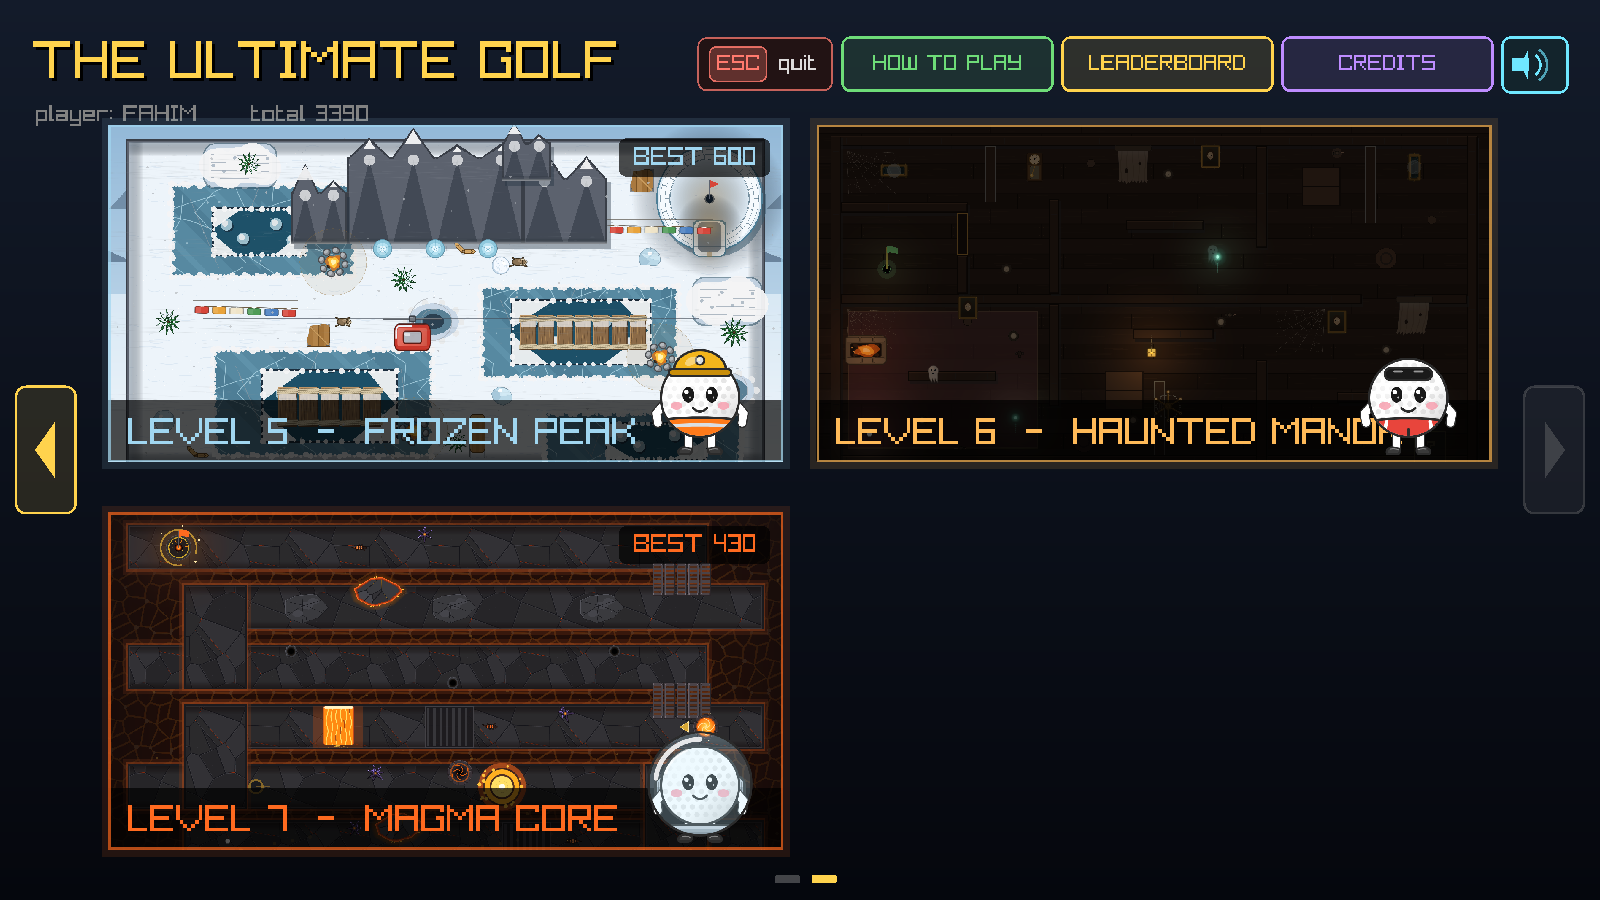
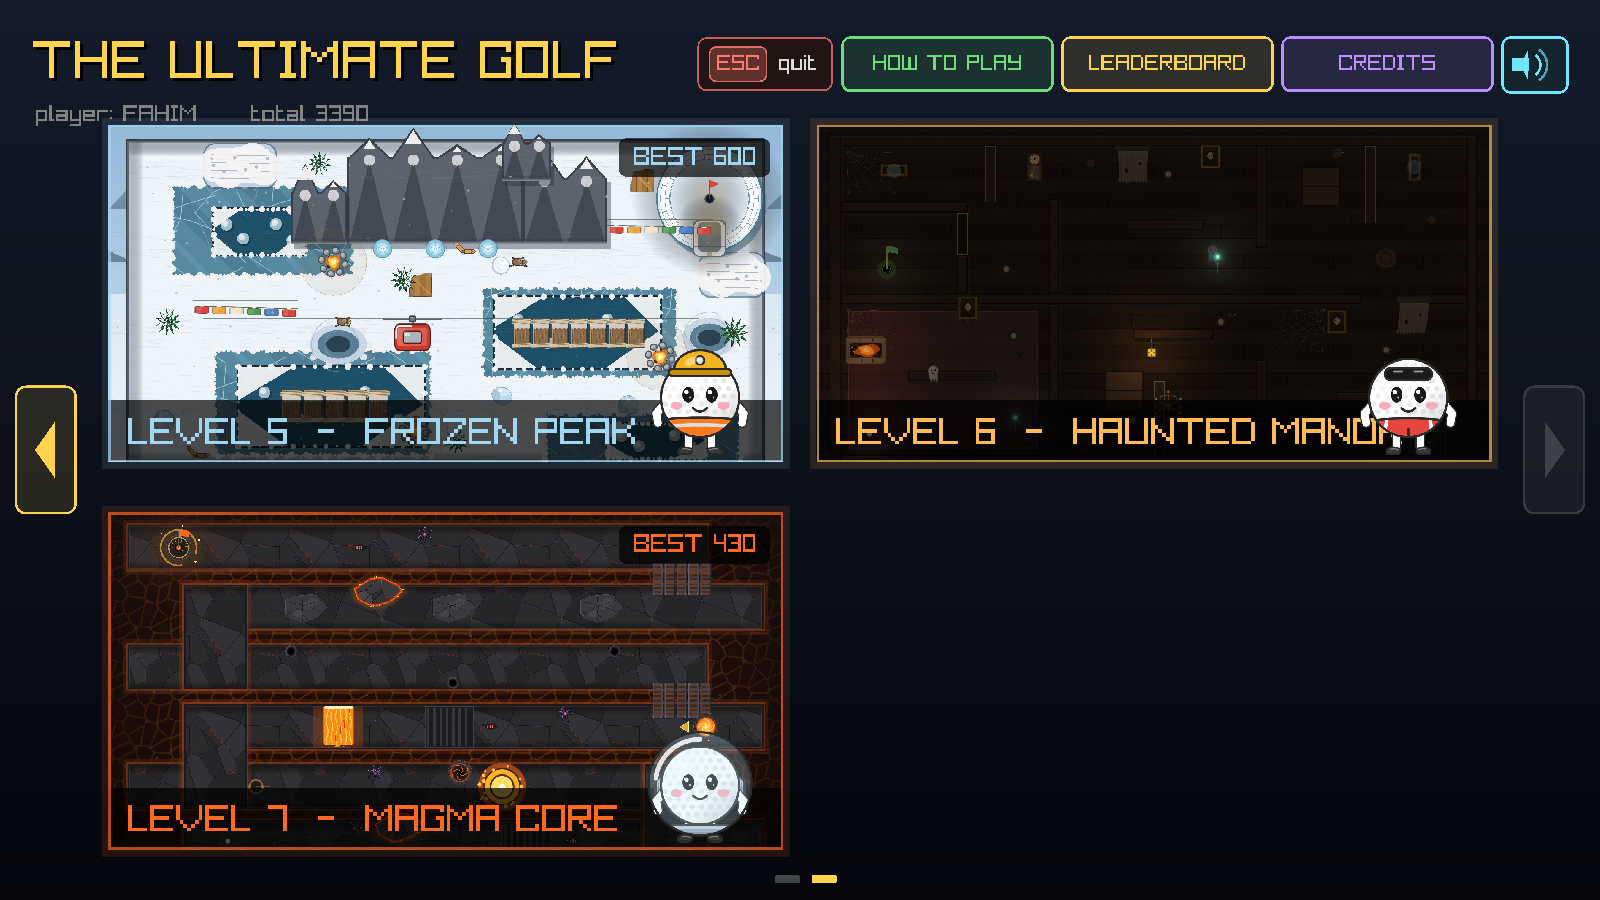
Make the peak's furniture do something, or take it out
Three of these were decoration pretending to be obstacles.

The toboggan is gone. It was a moving box parked on a corner of the basin
nobody has a reason to visit, it was never in the briefing, and there is no
slope on this level for a sled to be running down. Its sprite is deleted too.

The snow pits only ever did anything if the ball came to a complete stop
inside one and then sat there for three seconds, which on an open field
essentially never happened. They now drag like wet sand the moment you are
in one - harder than deep powder, hard enough to actually stop you - and once
you are stopped they take the ball in a second. Both of them have moved onto
ground you roll over on the way through: one on the way out of the camp, one
on the run up to the igloo.

The boardwalks were a lid. Each one covered its whole hole, so there was
nothing to decide and nothing to see. The two leads they cross are wider than
the boardwalk now, so the water shows on every side of the planks and the
crossing reads as the line it is. The planks also crack in a third of a
second instead of six tenths: you cross a boardwalk at speed or you go in.

Nothing is sharing ground with anything else any more - the crate that was
standing inside a snow pit, the boulder on the line out of the camp and the
pine growing out of a powder bank have all moved.

Every stretch of all three courses is reachable. The peak's worst leg is 26
of 40.

Changed region(s): [[0.25, 0.28, 0.5, 0.4356], [0.125, 0.3422, 0.3125, 0.4978]]

diff --git a/src/levels/level5_frozen_peak.c b/src/levels/level5_frozen_peak.c
@@ -34,7 +34,6 @@ Texture2D l5_campfire_texture;
 Texture2D l5_icicle_texture;
 Texture2D l5_ibex_texture;
 Texture2D l5_flags_texture;
-Texture2D l5_toboggan_texture;
 Texture2D l5_crate_texture;
 Texture2D l5_boulder_texture;
 Texture2D l5_spindrift_texture;
@@ -80,7 +79,9 @@ Rectangle l5_plank[2][7];
 int l5_plank_count[2] = {5,7};
 int l5_plank_state[2][7];
 float l5_plank_timer[2][7];
-float l5_plank_crack_time[2] = {0.6,0.35};
+//how long a plank holds once you are standing on it. Short on purpose: you cross a
+//boardwalk at speed or you go in.
+float l5_plank_crack_time[2] = {0.3,0.2};
 
 //the gondola carries the ball across
 Rectangle l5_gondola;
@@ -129,11 +130,6 @@ float l5_ibex_radius;
 Vector2 l5_flagline[3];
 float l5_flagline_width[3];
 
-//the toboggan runs a lane and knocks the ball off it
-Rectangle l5_toboggan;
-float l5_toboggan_from;
-float l5_toboggan_to;
-float l5_toboggan_speed;
 
 //supply crates are solid, ice boulders are bouncy, signposts are scenery
 Rectangle l5_crate[3];
@@ -192,8 +188,10 @@ void l5_reset_level()
 
     //the open water in them. This is the only thing on the level that can swallow a shot
     //outright, and all four are plainly visible.
-    l5_water[0] = l5_make_rect(440,760,380,200);
-    l5_water[1] = l5_make_rect(1150,560,390,180);
+    //the two leads the boardwalks cross are wider than the boardwalk, so the crossing is
+    //a line you take rather than a lid over the hole
+    l5_water[0] = l5_make_rect(370,748,530,226);
+    l5_water[1] = l5_make_rect(1100,548,470,206);
     l5_water[2] = l5_make_rect(300,300,260,130);
     l5_water[3] = l5_make_rect(1420,910,280,100);
 
@@ -216,17 +214,19 @@ void l5_reset_level()
     //deep powder: the places you can stop dead
     //two banks of deep powder, each one a place worth aiming at
     l5_powder[0] = l5_make_rect(280,120,190,110);
-    l5_powder[1] = l5_make_rect(1670,500,180,120);
+    l5_powder[1] = l5_make_rect(1690,430,170,110);
     l5_powder[2] = l5_make_rect(-900,-900,10,10);
 
     //two holes blown full of soft snow, out on the open field
-    l5_drift[0] = l5_make_rect(840,560,170,120);
-    l5_drift[1] = l5_make_rect(1690,760,160,110);
+    //two snow pits, both on ground you would otherwise roll straight over: one on the
+    //way out of the camp, one on the run up to the igloo
+    l5_drift[0] = l5_make_rect(560,620,190,130);
+    l5_drift[1] = l5_make_rect(1620,600,180,130);
     l5_drift_timer = 0;
 
     //boardwalks over the two biggest leads, for anyone who would rather not go round
-    for (int i=0; i<5; i++) l5_plank[0][i] = l5_make_rect(480+i*60,802,60,120);
-    for (int i=0; i<7; i++) l5_plank[1][i] = l5_make_rect(1168+i*52,598,52,106);
+    for (int i=0; i<5; i++) l5_plank[0][i] = l5_make_rect(490+i*62,812,62,100);
+    for (int i=0; i<7; i++) l5_plank[1][i] = l5_make_rect(1150+i*54,608,54,90);
     for (int b=0; b<2; b++)
     {
         for (int i=0; i<7; i++)
@@ -269,7 +269,7 @@ void l5_reset_level()
     l5_pine[1] = l5_make_point(990,960);
     l5_pine[2] = l5_make_point(1780,650);
     l5_pine[3] = l5_make_point(840,500);
-    l5_pine[4] = l5_make_point(400,170);
+    l5_pine[4] = l5_make_point(600,170);
 
     //campfires, out on the lakes: the only places on the ice where the ball has grip
     l5_campfire_radius = 95*l5_u;
@@ -314,20 +314,14 @@ void l5_reset_level()
     l5_flagline[2] = l5_make_point(-900,-900);
     l5_flagline_width[2] = 10*l5_u;
 
-    //the toboggan runs across the east shore
-    l5_toboggan = l5_make_rect(1000,800,100,150);
-    l5_toboggan_from = 760*l5_u;
-    l5_toboggan_to = 980*l5_u;
-    l5_toboggan_speed = 150*l5_u;
-
     //crates and boulders out on the snow
-    l5_crate[0] = l5_make_rect(560,620,76,76);
+    l5_crate[0] = l5_make_rect(850,478,76,76);
     l5_crate[1] = l5_make_rect(1480,180,76,76);
     l5_crate[2] = l5_make_rect(-900,-900,10,10);
     l5_boulder_radius = 34*l5_u;
     l5_boulder[0] = l5_make_point(160,900);
     l5_boulder[1] = l5_make_point(1120,830);
-    l5_boulder[2] = l5_make_point(1540,440);
+    l5_boulder[2] = l5_make_point(1480,860);
     l5_boulder[3] = l5_make_point(-900,-900);
     for (int i=0; i<4; i++) l5_boulder_hit[i] = 0;
 
@@ -481,19 +475,6 @@ void l5_update_obstacles(float dt)
             l5_ibex[i].x = l5_ibex_to[i];
             l5_ibex_speed[i] = -fabsf(l5_ibex_speed[i]);
         }
-    }
-
-    //the toboggan runs up and down its lane
-    l5_toboggan.y = l5_toboggan.y + l5_toboggan_speed*dt;
-    if (l5_toboggan.y<l5_toboggan_from)
-    {
-        l5_toboggan.y = l5_toboggan_from;
-        l5_toboggan_speed = fabsf(l5_toboggan_speed);
-    }
-    if (l5_toboggan.y>l5_toboggan_to)
-    {
-        l5_toboggan.y = l5_toboggan_to;
-        l5_toboggan_speed = -fabsf(l5_toboggan_speed);
     }
 
     for (int i=0; i<4; i++)
@@ -689,6 +670,12 @@ void l5_update_ball(float dt)
     {
         if (CheckCollisionPointRec(l5_ball,l5_powder[i])) friction = 430*l5_u;
     }
+    //a snow pit drags harder than anything else on the mountain. Roll into one slowly and
+    //it will stop you, and once you are stopped it has you.
+    for (int i=0; i<2; i++)
+    {
+        if (CheckCollisionPointRec(l5_ball,l5_drift[i])) friction = 1100*l5_u;
+    }
     float ball_speed = Vector2Length(l5_speed);
     if (ball_speed>0)
     {
@@ -720,7 +707,7 @@ void l5_update_ball(float dt)
     if (in_drift==1 && Vector2Length(l5_speed)<10*l5_u)
     {
         l5_drift_timer = l5_drift_timer + dt;
-        if (l5_drift_timer>=3)
+        if (l5_drift_timer>=1.2)
         {
             l5_send_ball_back();
             l5_message_type = 2;
@@ -801,10 +788,6 @@ void l5_update_ball(float dt)
             l5_speed.x = l5_speed.x + ibex_speed.x*0.3;
         }
     }
-
-    //the toboggan knocks the ball down the lane
-    Vector2 sled_speed = {0,l5_toboggan_speed};
-    l5_bounce_off_rectangle(l5_toboggan,sled_speed);
 
     //the gondola's walls push the ball along when it slides into one
     if (on_gondola==0)
@@ -1264,10 +1247,6 @@ void l5_draw_obstacles()
         DrawTexturePro(l5_boulder_texture,source,dest,origin,i*23,WHITE);
     }
 
-    //the toboggan
-    Rectangle sled_source = {(l5_toboggan_speed>0 ? 256 : 0),0,256,256};
-    DrawTexturePro(l5_toboggan_texture,sled_source,l5_toboggan,no_origin,0,WHITE);
-
     //the ibex pacing their lanes
     for (int i=0; i<3; i++)
     {
@@ -1499,7 +1478,6 @@ void l5_start(int screen_width, int screen_height)
     l5_icicle_texture = LoadTexture("assets/frozen/frozen_icicle.png");
     l5_ibex_texture = LoadTexture("assets/frozen/frozen_ibex.png");
     l5_flags_texture = LoadTexture("assets/frozen/frozen_flags.png");
-    l5_toboggan_texture = LoadTexture("assets/frozen/frozen_toboggan.png");
     l5_crate_texture = LoadTexture("assets/frozen/frozen_crate.png");
     l5_boulder_texture = LoadTexture("assets/frozen/frozen_boulder.png");
     l5_spindrift_texture = LoadTexture("assets/frozen/frozen_spindrift.png");
@@ -1519,7 +1497,6 @@ void l5_start(int screen_width, int screen_height)
     SetTextureFilter(l5_icicle_texture,TEXTURE_FILTER_BILINEAR);
     SetTextureFilter(l5_ibex_texture,TEXTURE_FILTER_BILINEAR);
     SetTextureFilter(l5_flags_texture,TEXTURE_FILTER_BILINEAR);
-    SetTextureFilter(l5_toboggan_texture,TEXTURE_FILTER_BILINEAR);
     SetTextureFilter(l5_crate_texture,TEXTURE_FILTER_BILINEAR);
     SetTextureFilter(l5_boulder_texture,TEXTURE_FILTER_BILINEAR);
     SetTextureFilter(l5_spindrift_texture,TEXTURE_FILTER_BILINEAR);
@@ -1598,7 +1575,6 @@ void l5_unload()
     UnloadTexture(l5_icicle_texture);
     UnloadTexture(l5_ibex_texture);
     UnloadTexture(l5_flags_texture);
-    UnloadTexture(l5_toboggan_texture);
     UnloadTexture(l5_crate_texture);
     UnloadTexture(l5_boulder_texture);
     UnloadTexture(l5_spindrift_texture);

diff --git a/src/the_ultimate_golf.c b/src/the_ultimate_golf.c
@@ -1531,7 +1531,7 @@ float brief_x[LEVELS][13] = {
     {390,225,465,520,915,730,1200,1180,1000},
     {800,1840,960,600,700,1810,1200,1330,675,110,-2,-3,-1},
     {690,690,340,835,950,330,250,1080,1280,1810,1810},
-    {1580,420,1720,1205,1190,1000,1000,485,220,1440,1080,300},
+    {1580,420,375,650,640,1000,930,485,170,870,390,300},
     {980,250,470,355,860,290,170,700,860,180,760,1000},
     {620,620,575,1120,250,620,960,1140,400,900,900,1700}};
 float brief_y[LEVELS][13] = {
@@ -1539,7 +1539,7 @@ float brief_y[LEVELS][13] = {
     {520,515,165,490,630,820,140,225,225},
     {250,700,640,720,150,454,990,580,990,490,0,0,0},
     {600,210,920,350,795,570,220,570,334,200,570},
-    {910,390,665,920,676,470,404,660,700,560,460,400},
+    {910,390,175,685,860,460,412,660,620,930,560,400},
     {620,860,220,235,385,205,220,480,480,200,600,880},
     {480,1000,690,250,300,960,660,240,250,640,500,760}};
 const char *brief_text[LEVELS][13] = {
@@ -1592,8 +1592,8 @@ const char *brief_text[LEVELS][13] = {
     {"The lakes have melted through in places.\nGo in and the shot starts again.",
      "Four of them, and almost no friction.\nThe ball keeps going. So does the wind.",
      "Kills the speed at once. A safe place\nto stop and line up a shot.",
-     "Stand still in one for three seconds\nand the snow swallows the ball.",
-     "Laid over the open water. It cracks when\nyou roll on it and comes back in five seconds.",
+     "Drags like wet sand. Stop in one for a\nsecond and the snow has the ball.",
+     "The one line across the lead. It cracks\nunder you: cross it fast or go in.",
      "Crosses the basin and GROWS as it goes.\nThe bigger it is, the harder it hits.",
      "Hangs off the mountain. Go under one\nand it comes down.",
      "Rides the cable across the middle lake.\nStep on and let it carry you.",

diff --git a/tools/segment_test.c b/tools/segment_test.c
@@ -10,8 +10,8 @@
 static unsigned int sd = 2024;
 float rnd(void) { sd = sd*1103515245 + 12345; return ((sd>>16)&0x7fff)/32767.0f; }
 
-float way5[][2] = {{180,960},{220,780},{250,620},{520,600},{760,660},{1000,690},
-                   {1010,460},{1300,450},{1600,470},{1700,520},{1710,430},{1710,300}};
+float way5[][2] = {{180,960},{220,780},{260,600},{480,520},{790,560},{1000,700},
+                   {1010,460},{1300,450},{1560,480},{1700,530},{1710,430},{1710,300}};
 float way6[][2] = {{150,940},{400,960},{670,930},{900,930},{1150,900},{1265,650},{1400,650},
                    {1600,620},{1620,556},{1620,460},{1500,460},{1265,470},{1100,470},
                    {900,300},{675,200},{560,180},{560,350},{560,460},{415,370},{300,430},{200,470}};
